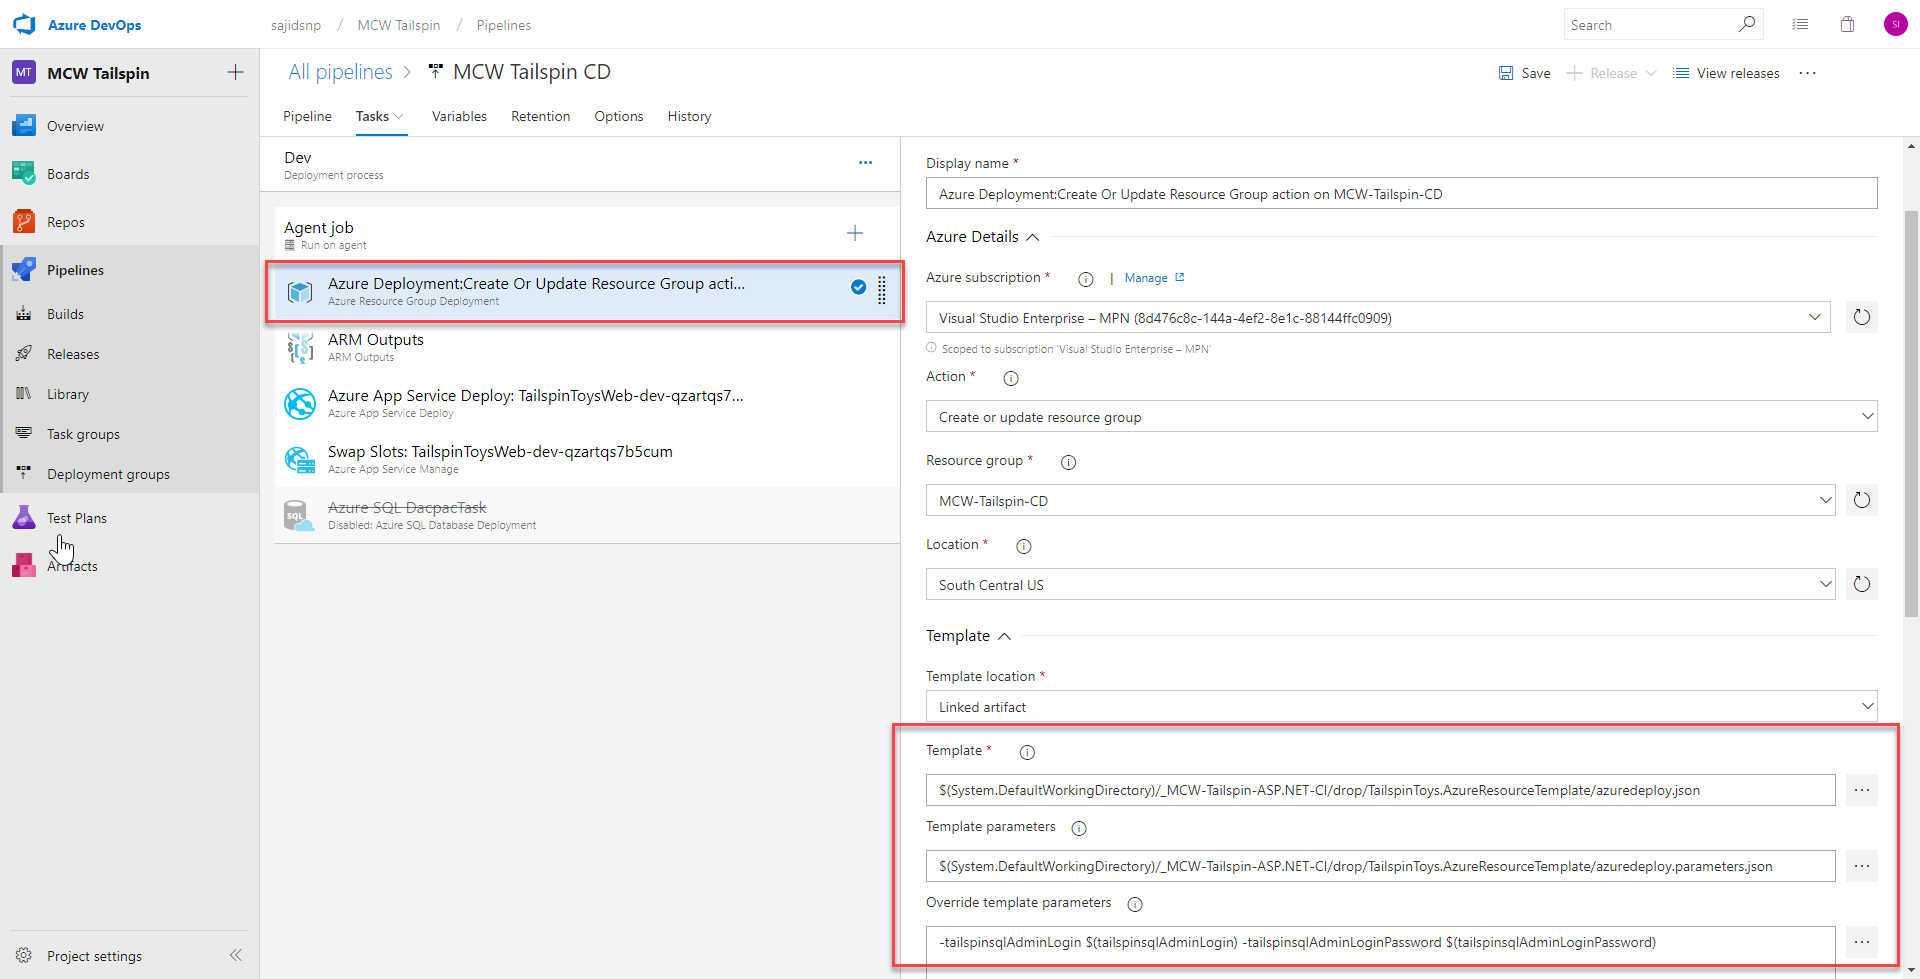
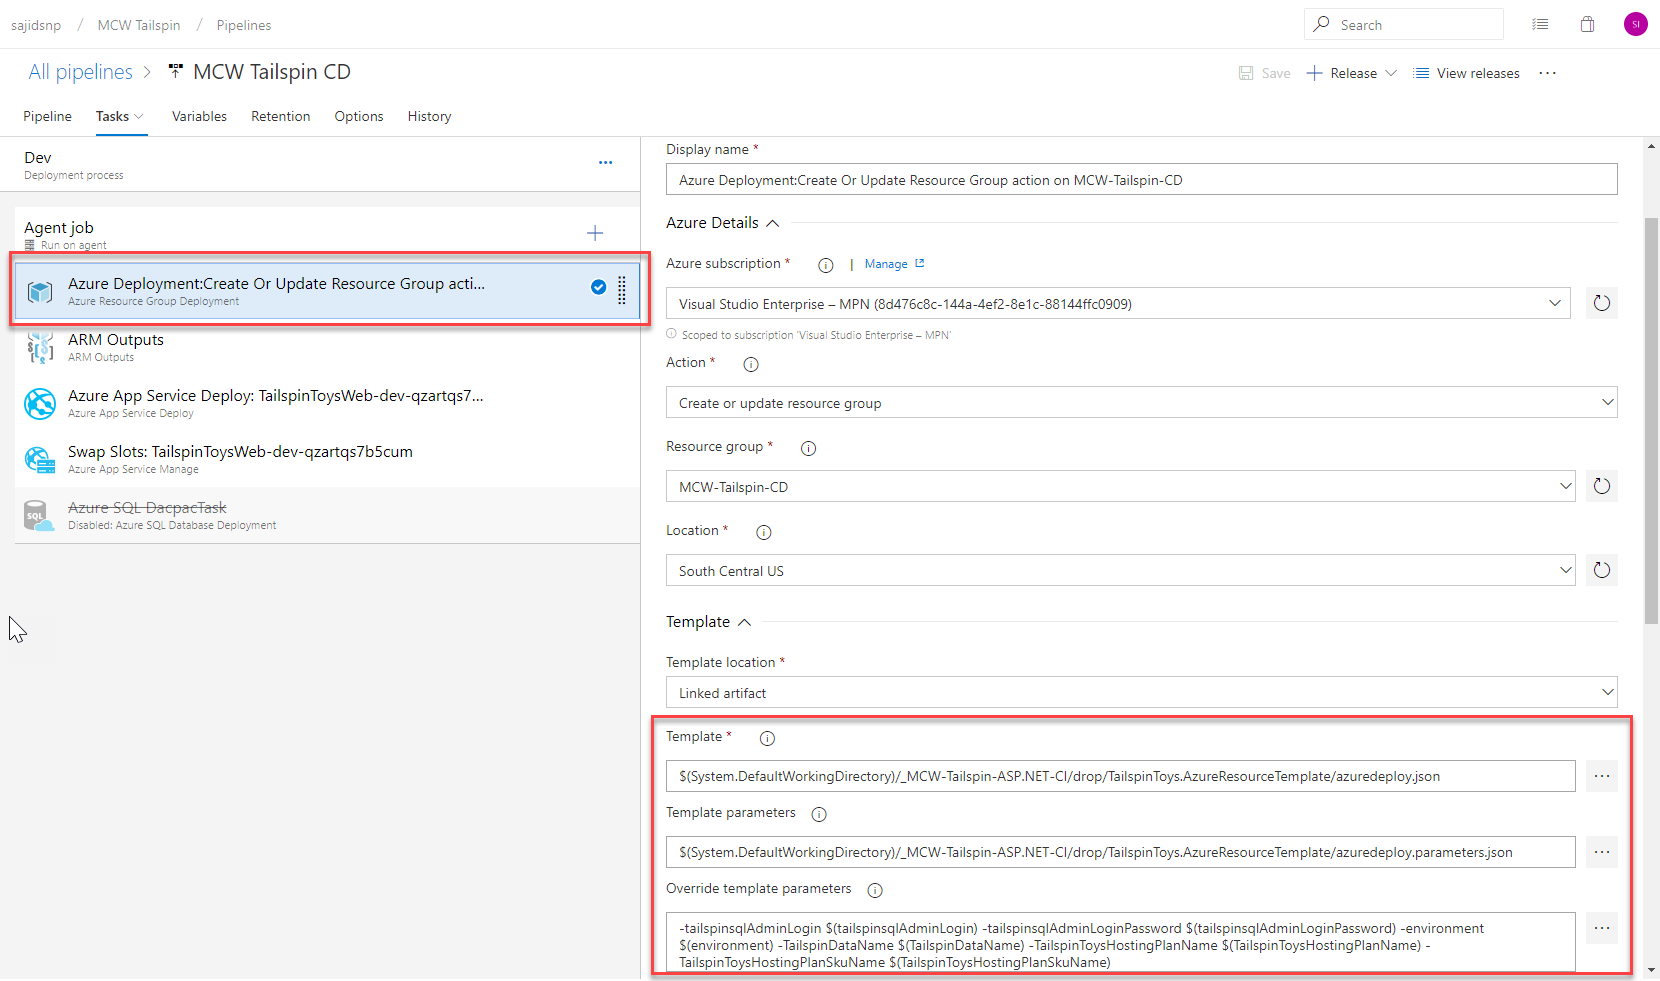
Updating the missing parameters for json template

diff --git a/Hands-on lab/HOL step-by-step - Continuous delivery in Azure DevOps.md b/Hands-on lab/HOL step-by-step - Continuous delivery in Azure DevOps.md
@@ -512,11 +512,13 @@ In this exercise, you will create a release pipeline in Azure DevOps that perfor
 
     ![On the screen, task is highlighted.](images/stepbystep/media/imagee1.png "Add Azure Resource Group Deployment Task")
 
-20. Select the "Azure Resource Group Deployment" task and configure the paths of template and parameter file as highlighted.
+20. Select the "Azure Resource Group Deployment" task and configure the paths of template and parameter file as highlighted. Under "Override template parameters" paste or type in these parameters
+
+-tailspinsqlAdminLogin $(tailspinsqlAdminLogin) -tailspinsqlAdminLoginPassword $(tailspinsqlAdminLoginPassword) -environment $(environment) -TailspinDataName $(TailspinDataName) -TailspinToysHostingPlanName $(TailspinToysHostingPlanName) -TailspinToysHostingPlanSkuName $(TailspinToysHostingPlanSkuName)
 
     ![On the screen, configure task as highlighted.](images/stepbystep/media/imagee2.png "Configure Azure Resource Group Deployment Task")
 
-21. Configure the variables for different environments.
+21. Register and configure the variables that are being used as parameters in previous step.
 
     ![On the screen, configure variables as highlighted.](images/stepbystep/media/imagee3.png "Configure variables")
 
